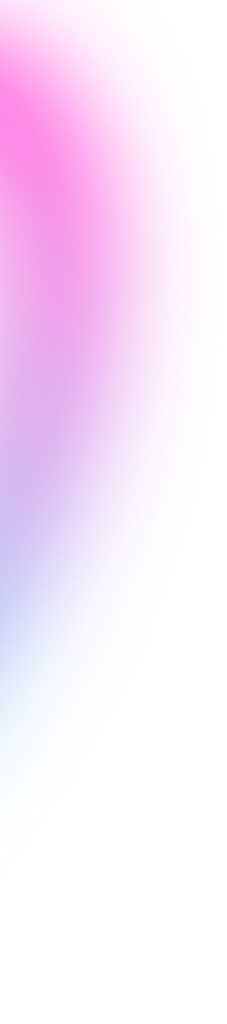
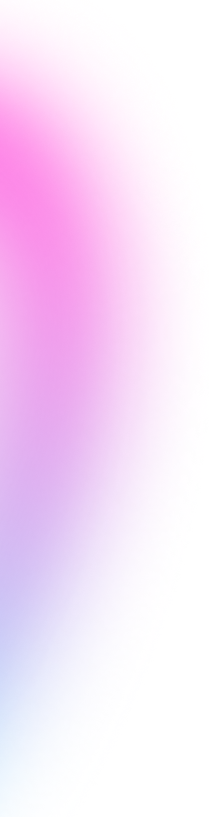
fix: incorrect hieght, bg halos

diff --git a/src/App.css b/src/App.css
@@ -13,12 +13,7 @@
 
 .app {
   width: 100vw;
-  display: flex;
-  flex-direction: column;
-  /* justify-content: center; */
-  align-items: center;
   background-color: black;
-  height: 200vh;
 }
 
 .bg-shape-left {

diff --git a/src/components/PageSection/PageSection.module.scss b/src/components/PageSection/PageSection.module.scss
@@ -3,6 +3,6 @@
     display: flex;
     justify-content: center;
     width: 100%;
-    height: 64rem;
-    background-color: black;
+    height: 100vh;
+    background-color: #000000;
 }
